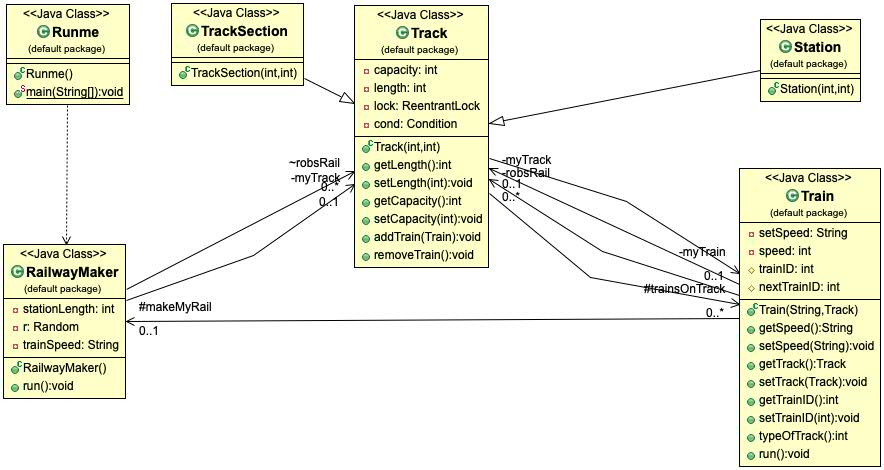
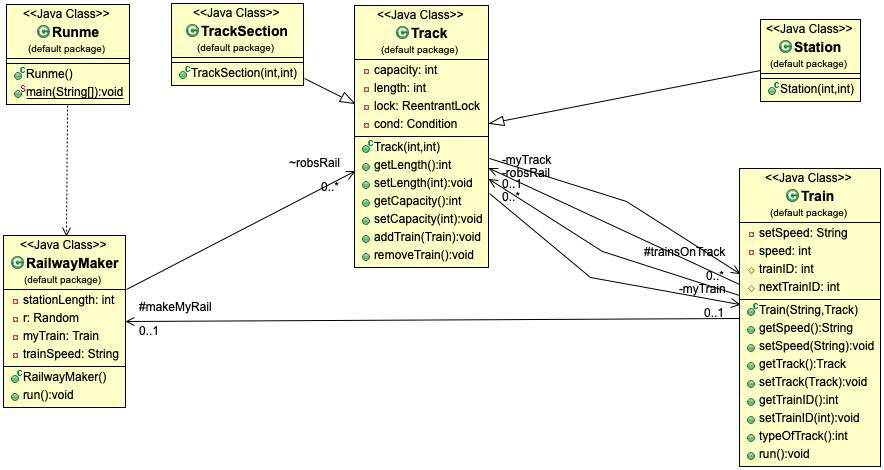
update

diff --git a/src/Train.java b/src/Train.java
@@ -10,6 +10,8 @@ import java.util.concurrent.locks.*;
 		protected int nextTrainID;
 		protected RailwayMaker makeMyRail;
 		
+		
+		//train constructor 
 		public Train (String trainSpeed, Track whichTrack) {
 			if (trainSpeed == "fast") {
 				speed = 1000;
@@ -32,6 +34,7 @@ import java.util.concurrent.locks.*;
 		public void setSpeed(String setSpeed) { 
 			this.setSpeed = setSpeed;
 		}
+		
 		public Track getTrack() {
 			return myTrack;
 		}
@@ -45,9 +48,11 @@ import java.util.concurrent.locks.*;
 		}
 	
 		public void setTrainID(int trainID) {
-			this.nextTrainID = trainID;
+			this.trainID = trainID;
 		}
 		
+		//variable for track type. may be better way to do this but for some reason using instance of in the run method 
+		//seemed to cause problems. probably (definitely) me just being stupid.
 		public int typeOfTrack() {
 			int x = 0;
 			if (this.getTrack() instanceof TrackSection) {
@@ -59,6 +64,9 @@ import java.util.concurrent.locks.*;
 			return x;
 		}
 		
+		
+		//determines capacity and type of track. if it's a station it's capacity will be 1+, a track sections will only be 1
+		//time spent on track section (sleep) is determined by length of track / speed of train x 1000 to make things faster.
 		public void run() {
 			robsRail = makeMyRail.robsRail;
 			while (true) {
@@ -78,6 +86,7 @@ import java.util.concurrent.locks.*;
 						break;
 					}
 					
+					//adds train to next bit of track and removes train section of track (not properly working!!!)
 					for (int i = 0; i < robsRail.size() - 1; i++) {
 						if (this.getTrack() == robsRail.get(i)) {
 							robsRail.get(i + 1).addTrain(this);

diff --git a/src/RailwayMaker.java b/src/RailwayMaker.java
@@ -5,14 +5,16 @@ public class RailwayMaker extends Thread {
 	ArrayList<Track> robsRail = new ArrayList<Track>();
 	private int stationLength = 200;
 	private Random r = new Random();
-	private Track myTrack;
+	private Train myTrain;
 	private String trainSpeed = ""; 
 	
 //	public String trackMaker() {
 //		String track = "|----Track------|";
 //		return track;
 //	}
+
 	
+	//constructor to build railway. all track sections and stations added here
 	public RailwayMaker() {
 		Station Glasgow = new Station(stationLength, 7);
 		TrackSection sectionOne = new TrackSection(1000, 1);
@@ -29,11 +31,11 @@ public class RailwayMaker extends Thread {
 		robsRail.add(sectionThree);
 		robsRail.add(Inverness);
 	}
-	
+	 
 	public void run() {
 		RailwayMaker y = new RailwayMaker();
 		while(true) {
-			int x = r.nextInt(2);
+			int x = r.nextInt(2);//generates trains with different speeds randomly
 			if (x == 0) {
 				trainSpeed = "fast";
 			}
@@ -41,9 +43,10 @@ public class RailwayMaker extends Thread {
 				trainSpeed = "slow";
 			}
 			Train myTrain = new Train(trainSpeed,robsRail.get(0));
+//			myTrain.setTrainID(myTrain.trainID++);
 			myTrain.makeMyRail = this;
 			robsRail.get(0).addTrain(myTrain);
-			myTrain.start();
+			myTrain.start();//starts thread
 			try {
 				Thread.sleep(r.nextInt(5000));
 			} catch (InterruptedException e) {

diff --git a/src/Printer.java b/src/Printer.java
@@ -8,6 +8,8 @@ public class Printer extends Thread {
 	protected RailwayMaker myRail = new RailwayMaker();
 	StringBuilder bob = new StringBuilder();
 	
+	//class uses a string builder object (bob) to print the status of the railway. bob builds the railway, and shows it to his friends.
+	
 	public void run() {
 		while(true) {
 			bob.append(Glasgow);
@@ -39,9 +41,9 @@ public class Printer extends Thread {
 				bob.append(myRail.robsRail.get(6).trainsOnTrack.get(i).getTrainID() + ",");
 			}
 			
-			bob.append("|");
+			bob.append("|"); //adds a | at the end of each string
 			System.out.println(bob);
-			bob.setLength(0);
+			bob.setLength(0);//stops an exception being thrown
 			try {
 				Thread.sleep(1000); 
 			} catch (InterruptedException e) {

diff --git a/src/Track.java b/src/Track.java
@@ -30,6 +30,7 @@ import java.util.ArrayList;
 			this.capacity = capacity;
 		}
 		
+		//method to add train to piece of track
 		public void addTrain(Train myTrain) {
 			lock.lock();
 			try {
@@ -44,6 +45,7 @@ import java.util.ArrayList;
 		            }lock.unlock(); 
 		}
 		
+		//method to remove train from piece of track
 		public void removeTrain() {
 			lock.lock();
 			myTrain.setTrack(null);

diff --git a/src/Runme.java b/src/Runme.java
@@ -9,12 +9,13 @@ public class Runme {
 		myPrinter.myRail = myRail; 
 		myPrinter.start();
 		try {
+			while (true) {
 			myRail.join();
 			myPrinter.join();
-			
+			}
 		} catch (InterruptedException e) {
 			e.printStackTrace();
 		}
 	}
 } 
- 
+ //arrrrrghh almost working

diff --git a/src/TrackSection.java b/src/TrackSection.java
@@ -3,8 +3,10 @@ public class TrackSection extends Track{
 	
 	public TrackSection (int length, int capacity) {
 		super(length, capacity);
-		length = 500;
+		length = 1000;
 	}
 
 }
+
+//class is an extension of type track
  

diff --git a/src/Station.java b/src/Station.java
@@ -6,3 +6,5 @@ public class Station extends Track {
 			length = 200;
 	}
 } 
+
+//class is an extension of type track
